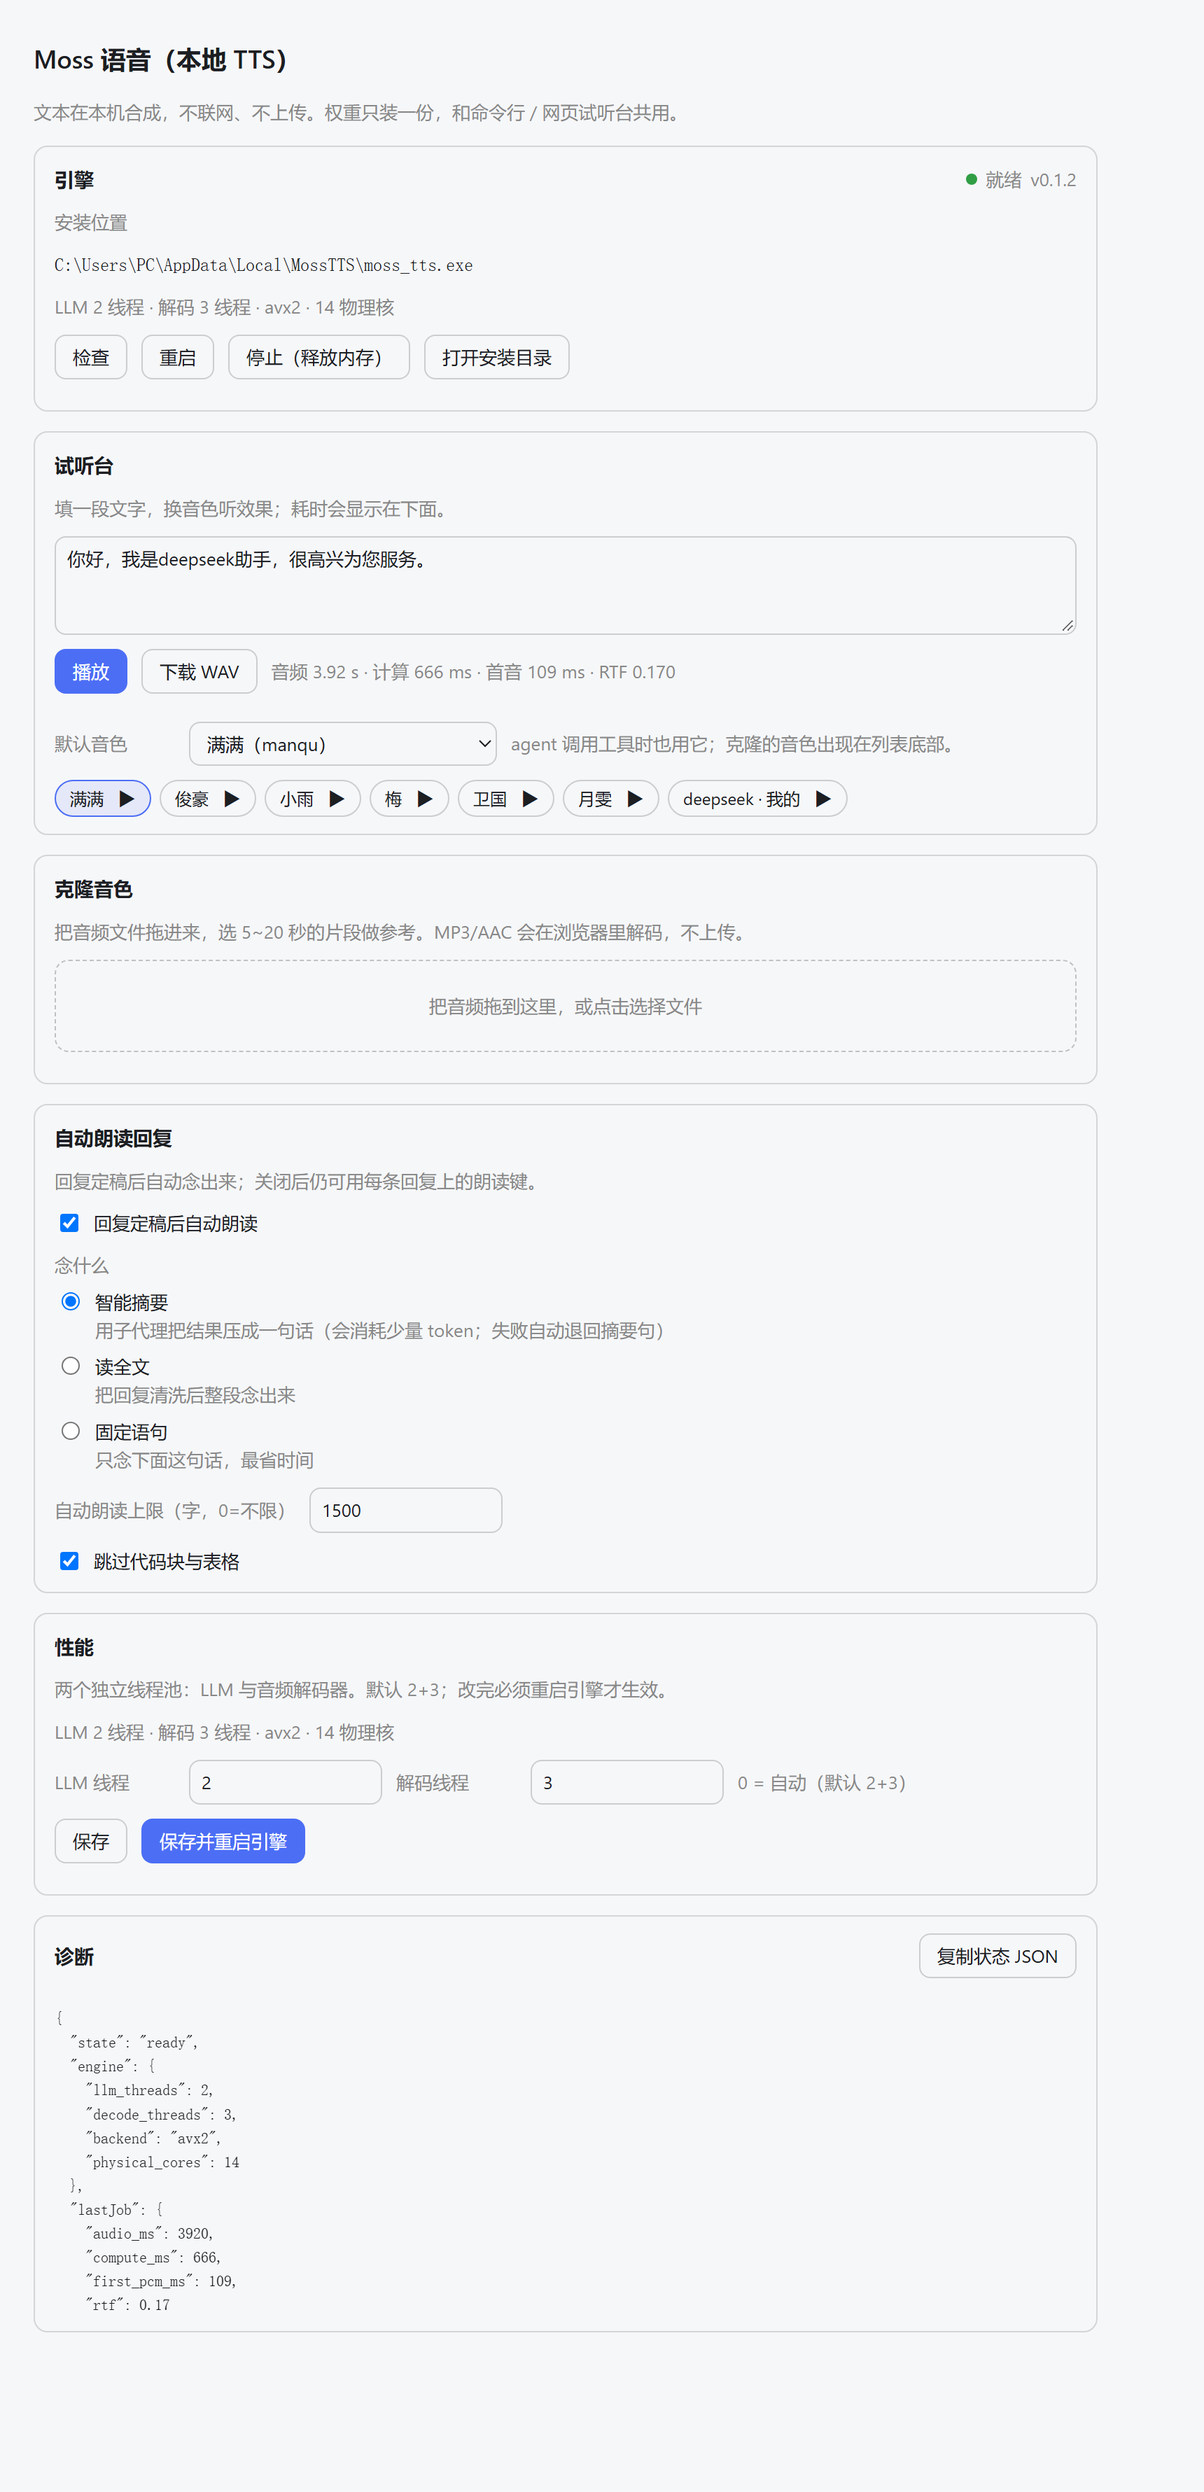
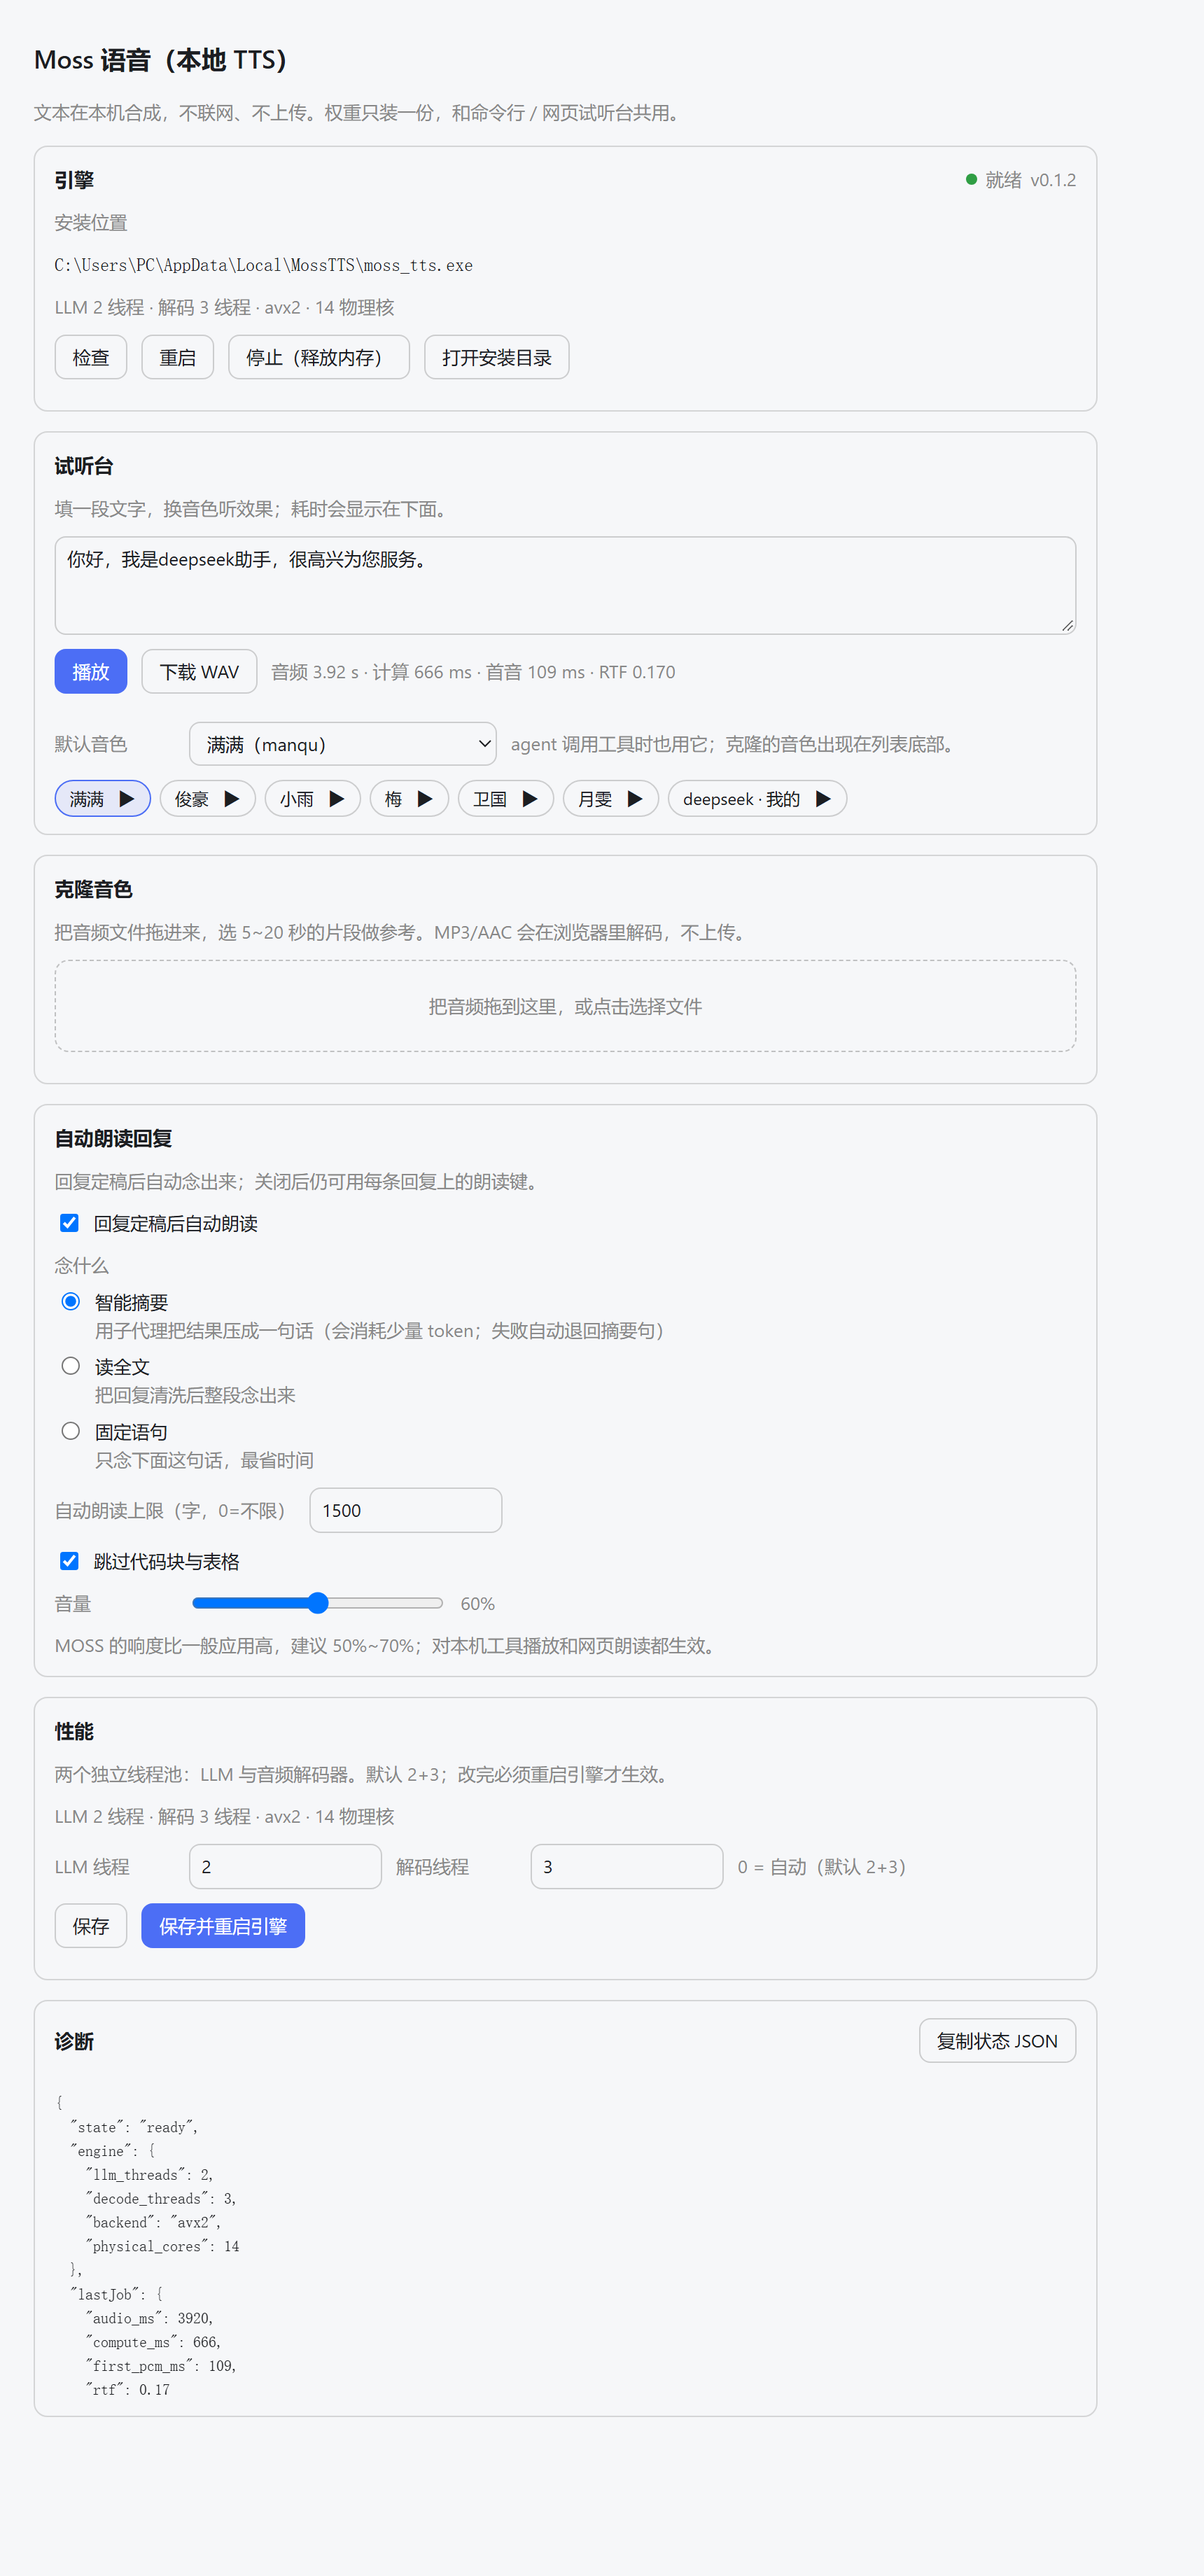
fix: 0.2.1——中断后引擎卡死、摘要没走子代理、音量控制
- 播放流 pause 引擎 stdout 后，客户端中断/播完没有 resume，管道写满会让引擎卡在 write、
  不再读 stdin，后续 voices/speak 永远收不到回复（工具调用卡死且停不下来）。
  现在 drain/finish/close/finally 都会放行，请求超时也主动 resume；
  moss_tts_voices 加 20 秒上限。
- 智能摘要 maxDepth 0 → 1：真机上被服务端判成 depth 1 exceeds maxDepth 0，
  每次都退回抽取式；现在会真的起 moss-tts-summary 子代理。
- 音量：设置页新增 0~100% 滑块（默认 60%）。网页播放按块乘增益（拖动立即生效），
  工具播放的 WAV 落盘时按同一比例缩放。
- 测试：resume 断言、scalePcm16、落盘缩放、maxDepth 期望、音量夹取。

diff --git a/lib/client.js b/lib/client.js
@@ -79,6 +79,8 @@ const ZH = {
   'settings.cannedText': '固定语句',
   'settings.maxChars': '自动朗读上限（字，0=不限）',
   'settings.skipCode': '跳过代码块与表格',
+  'settings.volume': '音量',
+  'settings.volumeHint': 'MOSS 的响度比一般应用高，建议 50%~70%；对本机工具播放和网页朗读都生效。',
   'settings.perf': '性能',
   'settings.perfHint': '两个独立线程池：LLM 与音频解码器。默认 2+3；改完必须重启引擎才生效。',
   'settings.llmThreads': 'LLM 线程',
@@ -171,6 +173,8 @@ const EN = {
   'settings.cannedText': 'Fixed line',
   'settings.maxChars': 'Auto-read limit (characters, 0 = no limit)',
   'settings.skipCode': 'Skip code blocks and tables',
+  'settings.volume': 'Volume',
+  'settings.volumeHint': 'MOSS is louder than most apps; 50–70% is a good start. Applies to tool playback and browser read-aloud.',
   'settings.perf': 'Performance',
   'settings.perfHint': 'Two independent thread pools: LLM and the audio decoder. Default is 2+3; restart the engine to apply.',
   'settings.llmThreads': 'LLM threads',
@@ -227,6 +231,7 @@ const DEFAULT_PREFS = {
   cannedText: '任务已经完成，请查收。',
   maxChars: 1500,
   skipCode: true,
+  volume: 0.6,
   llmThreads: 0,
   decodeThreads: 0,
   idleUnloadMinutes: 10,
@@ -871,8 +876,11 @@ class StreamPlayer {
     const aligned = new Uint8Array(bytes.length)
     aligned.set(bytes)
     const ints = new Int16Array(aligned.buffer)
+    // 音量在浏览器这一侧乘：拖动滑块时，后续到的音频块立刻生效
+    const raw = Number(prefsStore.value?.volume)
+    const gain = Number.isFinite(raw) ? Math.min(1, Math.max(0, raw)) : 1
     let floats = new Float32Array(ints.length)
-    for (let i = 0; i < ints.length; i++) floats[i] = ints[i] / 32768
+    for (let i = 0; i < ints.length; i++) floats[i] = (ints[i] / 32768) * gain
     if (this.resample) floats = this.resample(floats)
     this.sent += floats.length >> 1
     this.worklet.port.postMessage({ type: 'push', samples: floats }, [floats.buffer])
@@ -1292,6 +1300,21 @@ function AutoReadCard(props) {
       onChange: (checked) => setPrefs({ skipCode: checked }),
       label: t('settings.skipCode'),
     }),
+    react.createElement(
+      Field,
+      { label: t('settings.volume') },
+      react.createElement('input', {
+        type: 'range',
+        min: 0,
+        max: 1,
+        step: 0.05,
+        value: prefs.volume ?? 0.6,
+        onChange: (event) => setPrefs({ volume: Number(event.target.value) }),
+        style: { width: '180px' },
+      }),
+      react.createElement('span', { style: ui.label }, `${Math.round((prefs.volume ?? 0.6) * 100)}%`),
+    ),
+    react.createElement('div', { style: ui.label }, t('settings.volumeHint')),
     playback.error ? react.createElement('div', { style: { ...ui.label, color: '#e03131' } }, playback.error) : null,
     playback.dropped || playback.underruns
       ? react.createElement('div', { style: ui.label }, `丢样 ${playback.dropped} · 欠载 ${playback.underruns}`)

diff --git a/src/client/10-i18n.js b/src/client/10-i18n.js
@@ -68,6 +68,8 @@ const ZH = {
   'settings.cannedText': '固定语句',
   'settings.maxChars': '自动朗读上限（字，0=不限）',
   'settings.skipCode': '跳过代码块与表格',
+  'settings.volume': '音量',
+  'settings.volumeHint': 'MOSS 的响度比一般应用高，建议 50%~70%；对本机工具播放和网页朗读都生效。',
   'settings.perf': '性能',
   'settings.perfHint': '两个独立线程池：LLM 与音频解码器。默认 2+3；改完必须重启引擎才生效。',
   'settings.llmThreads': 'LLM 线程',
@@ -160,6 +162,8 @@ const EN = {
   'settings.cannedText': 'Fixed line',
   'settings.maxChars': 'Auto-read limit (characters, 0 = no limit)',
   'settings.skipCode': 'Skip code blocks and tables',
+  'settings.volume': 'Volume',
+  'settings.volumeHint': 'MOSS is louder than most apps; 50–70% is a good start. Applies to tool playback and browser read-aloud.',
   'settings.perf': 'Performance',
   'settings.perfHint': 'Two independent thread pools: LLM and the audio decoder. Default is 2+3; restart the engine to apply.',
   'settings.llmThreads': 'LLM threads',

diff --git a/src/client/40-settings.js b/src/client/40-settings.js
@@ -201,6 +201,21 @@ function AutoReadCard(props) {
       onChange: (checked) => setPrefs({ skipCode: checked }),
       label: t('settings.skipCode'),
     }),
+    react.createElement(
+      Field,
+      { label: t('settings.volume') },
+      react.createElement('input', {
+        type: 'range',
+        min: 0,
+        max: 1,
+        step: 0.05,
+        value: prefs.volume ?? 0.6,
+        onChange: (event) => setPrefs({ volume: Number(event.target.value) }),
+        style: { width: '180px' },
+      }),
+      react.createElement('span', { style: ui.label }, `${Math.round((prefs.volume ?? 0.6) * 100)}%`),
+    ),
+    react.createElement('div', { style: ui.label }, t('settings.volumeHint')),
     playback.error ? react.createElement('div', { style: { ...ui.label, color: '#e03131' } }, playback.error) : null,
     playback.dropped || playback.underruns
       ? react.createElement('div', { style: ui.label }, `丢样 ${playback.dropped} · 欠载 ${playback.underruns}`)

diff --git a/src/client/30-player.js b/src/client/30-player.js
@@ -339,8 +339,11 @@ class StreamPlayer {
     const aligned = new Uint8Array(bytes.length)
     aligned.set(bytes)
     const ints = new Int16Array(aligned.buffer)
+    // 音量在浏览器这一侧乘：拖动滑块时，后续到的音频块立刻生效
+    const raw = Number(prefsStore.value?.volume)
+    const gain = Number.isFinite(raw) ? Math.min(1, Math.max(0, raw)) : 1
     let floats = new Float32Array(ints.length)
-    for (let i = 0; i < ints.length; i++) floats[i] = ints[i] / 32768
+    for (let i = 0; i < ints.length; i++) floats[i] = (ints[i] / 32768) * gain
     if (this.resample) floats = this.resample(floats)
     this.sent += floats.length >> 1
     this.worklet.port.postMessage({ type: 'push', samples: floats }, [floats.buffer])

diff --git a/src/client/20-store.js b/src/client/20-store.js
@@ -9,6 +9,7 @@ const DEFAULT_PREFS = {
   cannedText: '任务已经完成，请查收。',
   maxChars: 1500,
   skipCode: true,
+  volume: 0.6,
   llmThreads: 0,
   decodeThreads: 0,
   idleUnloadMinutes: 10,

diff --git a/README.zh-CN.md b/README.zh-CN.md
@@ -71,7 +71,7 @@ dsh plugin --profile <name> add github:litterbit/dsh-plugin-moss-tts#main
 |---|---|
 | 输入框左侧 🔊 | 自动朗读开关。开着时，每条回复定稿后按所选模式念；再点（朗读中变 ⏹）立刻停 |
 | 每条回复的 🔊 | 只念这一条。默认念全文，不受"自动朗读上限"影响 |
-| 设置 → Moss 语音 | 引擎状态/线程/重启、默认音色、**试听台**（填文本逐个音色试）、**拖入音频克隆音色**、三种朗读模式、诊断 |
+| 设置 → Moss 语音 | 引擎状态/线程/重启、默认音色、**试听台**（填文本逐个音色试）、**拖入音频克隆音色**、三种朗读模式、**音量**、诊断 |
 | 工具 `moss_tts_say` | agent 主动朗读（本机播放，或 `save_to` 只落盘）；克隆音色自动识别，不用再填 scope |
 | 工具 `moss_tts_voices` / `moss_tts_stop` / `moss_tts_clone` / `moss_tts_engine` | 音色列表（带中文名与默认标记）/ 停止 / 克隆（>20 秒自动裁剪）/ 状态、安装、重启、卸载 |
 
@@ -145,6 +145,8 @@ dsh plugin --profile <name> add github:litterbit/dsh-plugin-moss-tts#main
 | 长回复只念了一部分 | 默认上限 1500 字，改设置里的「自动朗读上限」或点那条回复上的朗读键 |
 | 一直占着 250 MB 内存 | 引擎是常驻子进程；空闲 10 分钟会自动卸载，也可以点「停止（释放内存）」，或把 `idleUnloadMinutes` 设小 |
 | 智能摘要没生效 | 看诊断 JSON 或 `plugin.log` 里的 `[summary]`；没挂 subagent 服务时会是 `extract`（本地第一句） |
+| 声音比别的应用响 | 设置页「音量」滑到 50%~70%（默认 60%）；网页播放与本机工具播放都生效 |
+| 工具调用一直不返回 | 0.2.1 修了中断后引擎 stdout 卡死；升级后重启 DSH 即可 |
 | 线程数改了没变 | 必须点「保存并重启引擎」；`settings.json` 里残留的旧值会先被读回设置页 |
 | 提示引擎版本过旧 | 删掉 `%LOCALAPPDATA%\MossTTS\models` 后重新点下载，升级权重 |
 | 插件没出现 | 安装后必须重启 DSH；`dsh --profile desktop --dump-config` 里应能看到一行 `id: moss-tts` |

diff --git a/README.md b/README.md
@@ -69,7 +69,7 @@ release's `sha256sums.txt`, and extracts it into `%LOCALAPPDATA%\MossTTS`.
 |---|---|
 | 🔊 left of the composer | Auto-read. Reads each reply when it settles, using the selected mode; while speaking the same button is ⏹ and stops it |
 | 🔊 on a reply | Reads that reply only (whole text, ignores the auto-read limit) |
-| Settings → Moss Speech | Engine state/threads/restart, default voice, **voice lab** (type text, preview any voice), **drag-and-drop clone**, three read modes, diagnostics |
+| Settings → Moss Speech | Engine state/threads/restart, default voice, **voice lab** (type text, preview any voice), **drag-and-drop clone**, three read modes, **volume**, diagnostics |
 | `moss_tts_say` | Agent-initiated speech (plays locally, or `save_to` writes a WAV); cloned voices are detected automatically |
 | `moss_tts_voices` / `moss_tts_stop` / `moss_tts_clone` / `moss_tts_engine` | Voices (labels + default marker) / stop / clone (trims >20 s) / status, install, restart, unload |
 
@@ -150,6 +150,8 @@ The weights are left in place (the CLI and the web playground still use them). D
 | Long replies are cut short | The auto-read limit (1500 chars) — raise it in settings, or use the reply's own read button |
 | It keeps ~250 MB resident | The engine is a resident child; it unloads after 10 idle minutes, or press "Stop (free memory)", or lower `idleUnloadMinutes` |
 | Smart summary is not used | Check the diagnostics JSON or `[summary]` in `plugin.log`; without the subagent service it degrades to `extract` |
+| Louder than other apps | Lower the "Volume" slider to 50–70% (default 60%); it applies to browser playback and tool playback |
+| A tool call never returns | 0.2.1 fixes the engine stdout stall after an aborted stream; update and restart DSH |
 | Thread changes do nothing | Press "Save and restart engine"; a stale value in `settings.json` is read back into the page first |
 | Plugin does not appear | DSH must be restarted; `dsh --profile desktop --dump-config` should contain a row `id: moss-tts` |
 

diff --git a/CHANGELOG.md b/CHANGELOG.md
@@ -1,5 +1,18 @@
 # Changelog
 
+## 0.2.1 — 2026-11-14
+
+0.2.0 在真机上暴露的三个问题：
+
+- **工具调用卡死且停不下来**：播放流把 `stdout` pause 之后，客户端中断/播完后没有 resume，
+  引擎的管道写满就卡在 write 上、连 stdin 都不读，之后 `voices`/`speak` 自然永远没回复。
+  现在 `drain` / `finish` / `close` / `finally` 四处都会放行，请求超时也会主动 `resume`；
+  `moss_tts_voices` 加了 20 秒上限，不会再无限期挂着。
+- **智能摘要根本没走子代理**：`maxDepth: 0` 被服务端判成 `depth 1 exceeds maxDepth 0`，
+  每次都退回抽取式。改成 `1`（只允许直接子代理），现在真的会起 `moss-tts-summary`。
+- **音量控制**：MOSS 的响度比一般应用高。设置页新增「音量」滑块（0~100%，默认 60%）：
+  网页播放按块乘增益（拖动滑块立即生效），工具播放的 WAV 在落盘时按同一比例缩放。
+
 ## 0.2.0 — 2026-11-14
 
 把引擎网页试听台的能力搬进设置页，并把「朗读」拆成三种模式。
